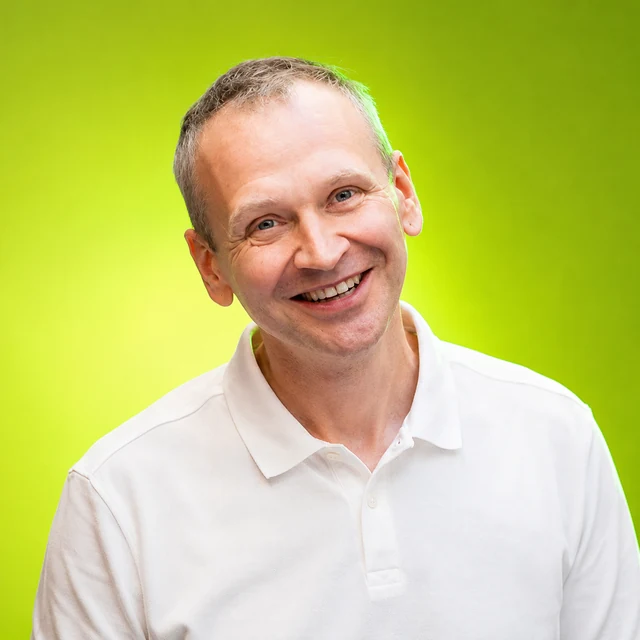
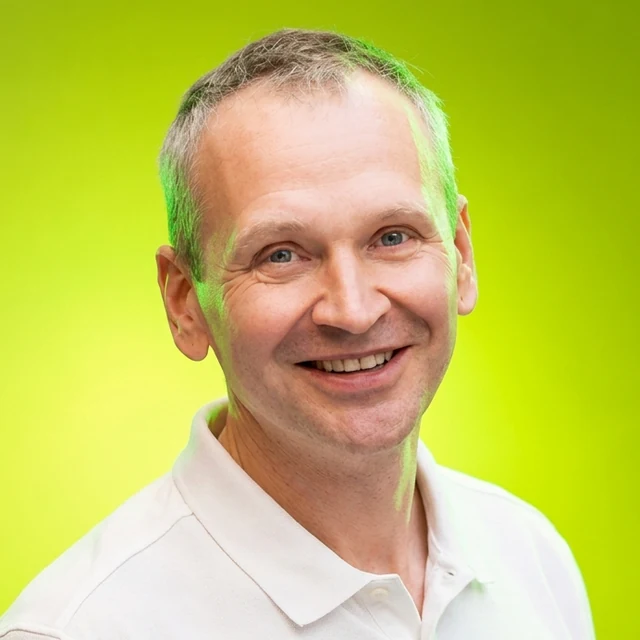
Tighten speaker-less rows, drop Ксения's empty slot, refresh 4 portraits
Layout:
- Both panel discussions lose their speaker block entirely and gain a
  talk--compact modifier; the min-height on .talk only exists to push an
  author line down, so without one it left ~240px of dead space. Rows drop
  420px -> 211px (2 Oct) and 420px -> 179px (3 Oct).
- Ксения Пылькина's reserved photo box removed — with a portrait beside her
  in the same row it read as a broken image. Caption now sits flush left.
- .talk__photo--reserved dropped: nothing uses it any more.

Portraits: new shots for Наталья Феофанова, Артём Русов, Никита Шультайс
and Иван Стародубцев. All four sources were framed wider than the existing
set (head 38-45% of frame vs ~58%), so each was cropped to match that
framing and the ~5% headroom before the 640x640 WebP export.

diff --git a/index.html b/index.html
@@ -255,19 +255,10 @@
 
         <div class="program__row">
           <div class="program__items">
-            <article class="talk talk--full">
+            <article class="talk talk--full talk--compact">
               <div class="talk__head">
                 <h3 class="talk__title">Как создавать образовательный контент, когда обо&nbsp;всём может рассказать ИИ?</h3>
                 <span class="talk__feature">Дискуссия</span>
-              </div>
-              <div class="talk__author">
-                <span class="talk__photo talk__photo--green">
-                  <span class="talk__glow"></span>
-                  <img loading="lazy" class="talk__icon" src="assets/woman.svg" alt="" />
-                </span>
-                <span class="talk__person">
-                  <span class="talk__tba">Скоро объявим</span>
-                </span>
               </div>
             </article>
           </div>
@@ -305,7 +296,6 @@
             <article class="talk">
               <h3 class="talk__title">Как AI&nbsp;помогает улучшить дизайн онлайн-курса</h3>
               <div class="talk__author">
-                <span class="talk__photo talk__photo--reserved"></span>
                 <span class="talk__person">
                   <span class="talk__tba talk__tba--name">Ксения Пылькина,<br /><span class="talk__tba-role">автор курсов «Лучший по&nbsp;Python»</span></span>
                 </span>
@@ -330,7 +320,7 @@
        <div class="program__day" data-day="2" hidden>
         <div class="program__row">
           <div class="program__items">
-            <article class="talk talk--full">
+            <article class="talk talk--full talk--compact">
               <div class="talk__head">
                 <h3 class="talk__title">Карта будущего онлайн-образования к&nbsp;2027&nbsp;году</h3>
                 <span class="talk__feature">Дискуссия</span>

diff --git a/styles.css b/styles.css
@@ -716,6 +716,12 @@ img {
      a short single-speaker title stretches into one very long line */
   max-width: 820px;
 }
+/* Sessions with no speaker block at all (panel discussions): the min-height
+   above exists only to push an author line down, so without one it leaves a
+   tall dead gap under the title. Collapse to the content. */
+.talk--compact {
+  min-height: 0;
+}
 .talk__title {
   margin: 0;
   /* same size as the program-banner title ("Хотите стать спикером?") */
@@ -830,14 +836,6 @@ img {
    --real plus an <img class="talk__portrait"> once the photo lands. */
 .talk__photo--placeholder {
   display: flex;
-}
-/* Announced speaker whose photo is still coming: hold the portrait's box
-   without drawing anything in it (no tile, no glow — client's call), so the
-   caption already sits where it will once the photo lands and nothing
-   shifts. Swap for --real plus an <img class="talk__portrait"> then. */
-.talk__photo--reserved {
-  display: flex;
-  background-color: transparent;
 }
 .talk__person {
   display: flex;
